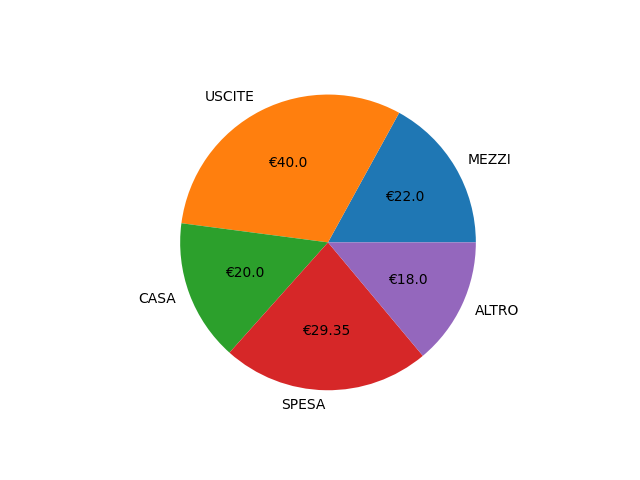
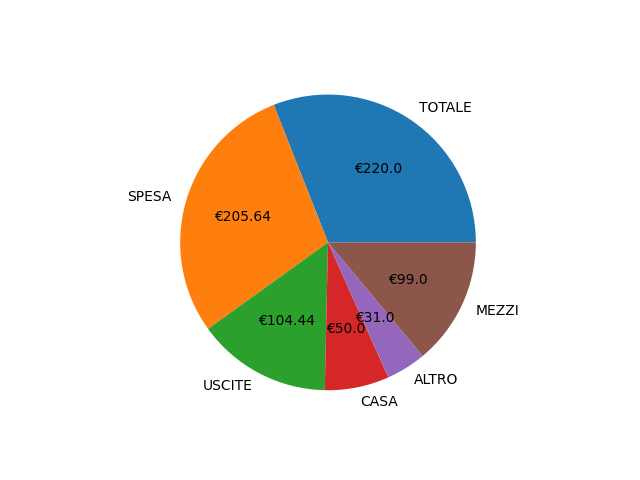
fixed summary months

diff --git a/src/functions.py b/src/functions.py
@@ -61,21 +61,27 @@ def GRAPH_DAY_BY_DAY(cells):
     return 0
 
 def SUMMARY_MONTHS(cells):
-    min_month = cells[0].day.month
-    max_month = cells[-1].day.month
-    months = []
-    rows = {"TOTAL": [0]*(max_month-min_month+1)}
+    unique_months_years = sorted(set((cell.day.year, cell.day.month) for cell in cells))
+
+    months = [month for _, month in unique_months_years]
+
+    rows = {"TOTAL": [0] * len(months)}
     for cell in cells:
         tmp_cat = cell.cat
         tmp_month = cell.day.month
-        if tmp_month not in months:
-            months.append(tmp_month)
-        if tmp_cat not in rows.keys():
-            rows[tmp_cat] = [0]*(max_month-min_month+1)
-        rows[tmp_cat][tmp_month-min_month] += cell.amount
-        rows["TOTAL"][tmp_month-min_month] += cell.amount
+        tmp_year = cell.day.year
+
+        index = unique_months_years.index((tmp_year, tmp_month))
+
+        if tmp_cat not in rows:
+            rows[tmp_cat] = [0] * len(months)
+
+        rows[tmp_cat][index] += cell.amount
+        rows["TOTAL"][index] += cell.amount
+
     filtered_row = {key: value for key, value in rows.items() if key != "TOTAL"}
     filtered_row["TOTAL"] = rows["TOTAL"]
+
     return [months, filtered_row], 1
 
 def SUMMARY(cells):
@@ -86,7 +92,7 @@ def SUMMARY(cells):
         if cell.cat not in tmp.keys():
             tmp[cell.cat] = 0
         tmp[cell.cat] += cell.amount
-    tmp["TOTAL"] = sum([x for x in tmp.values()])
+    tmp["TOTAL"] = round(sum([x for x in tmp.values()]), 2)
     return [[k, v] for k, v in tmp.items()], 0
 
 def PREDICT_NEXT_MONTH(cells):
